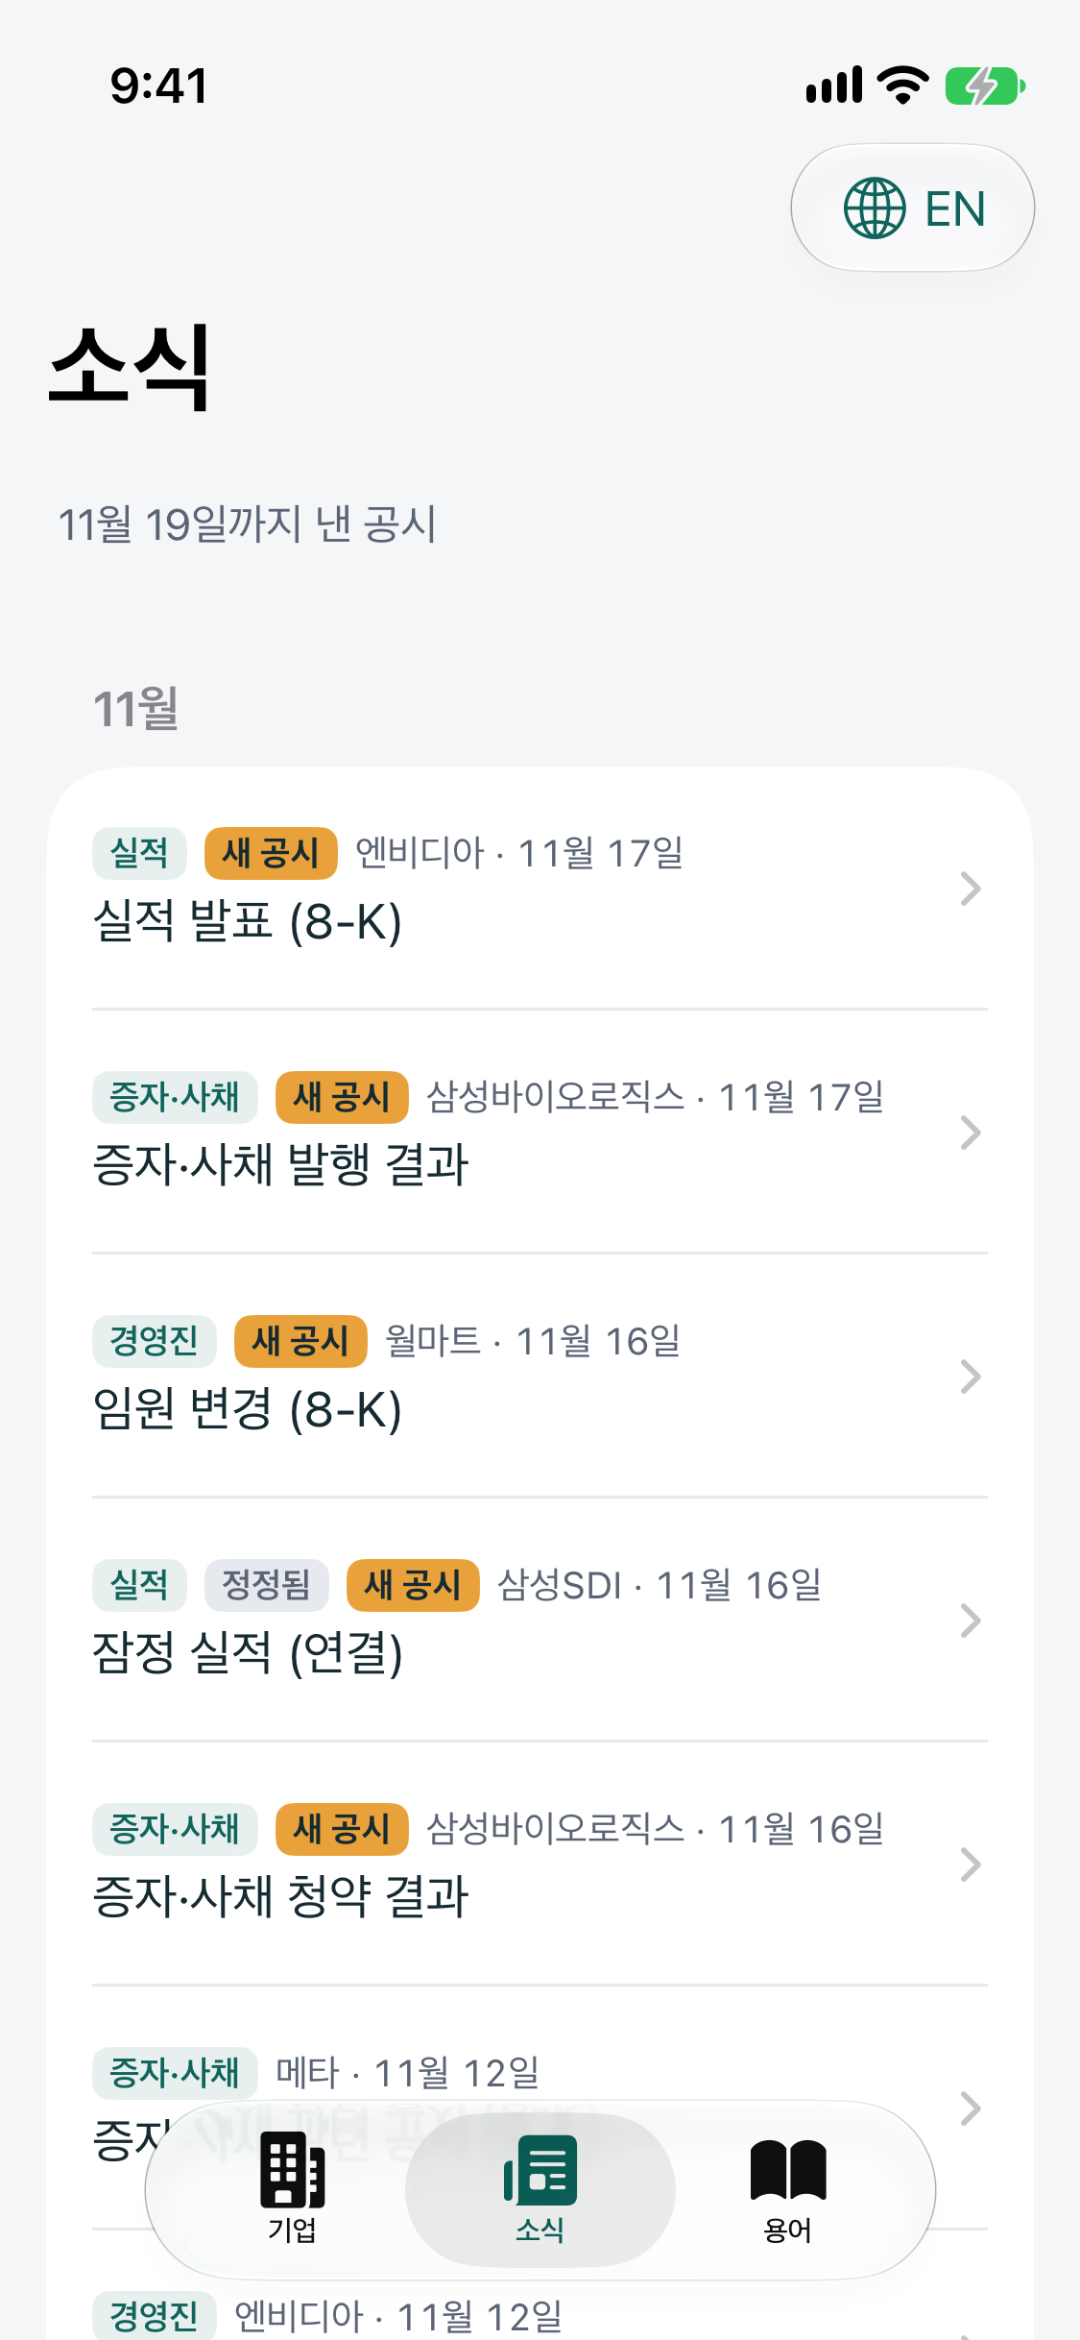
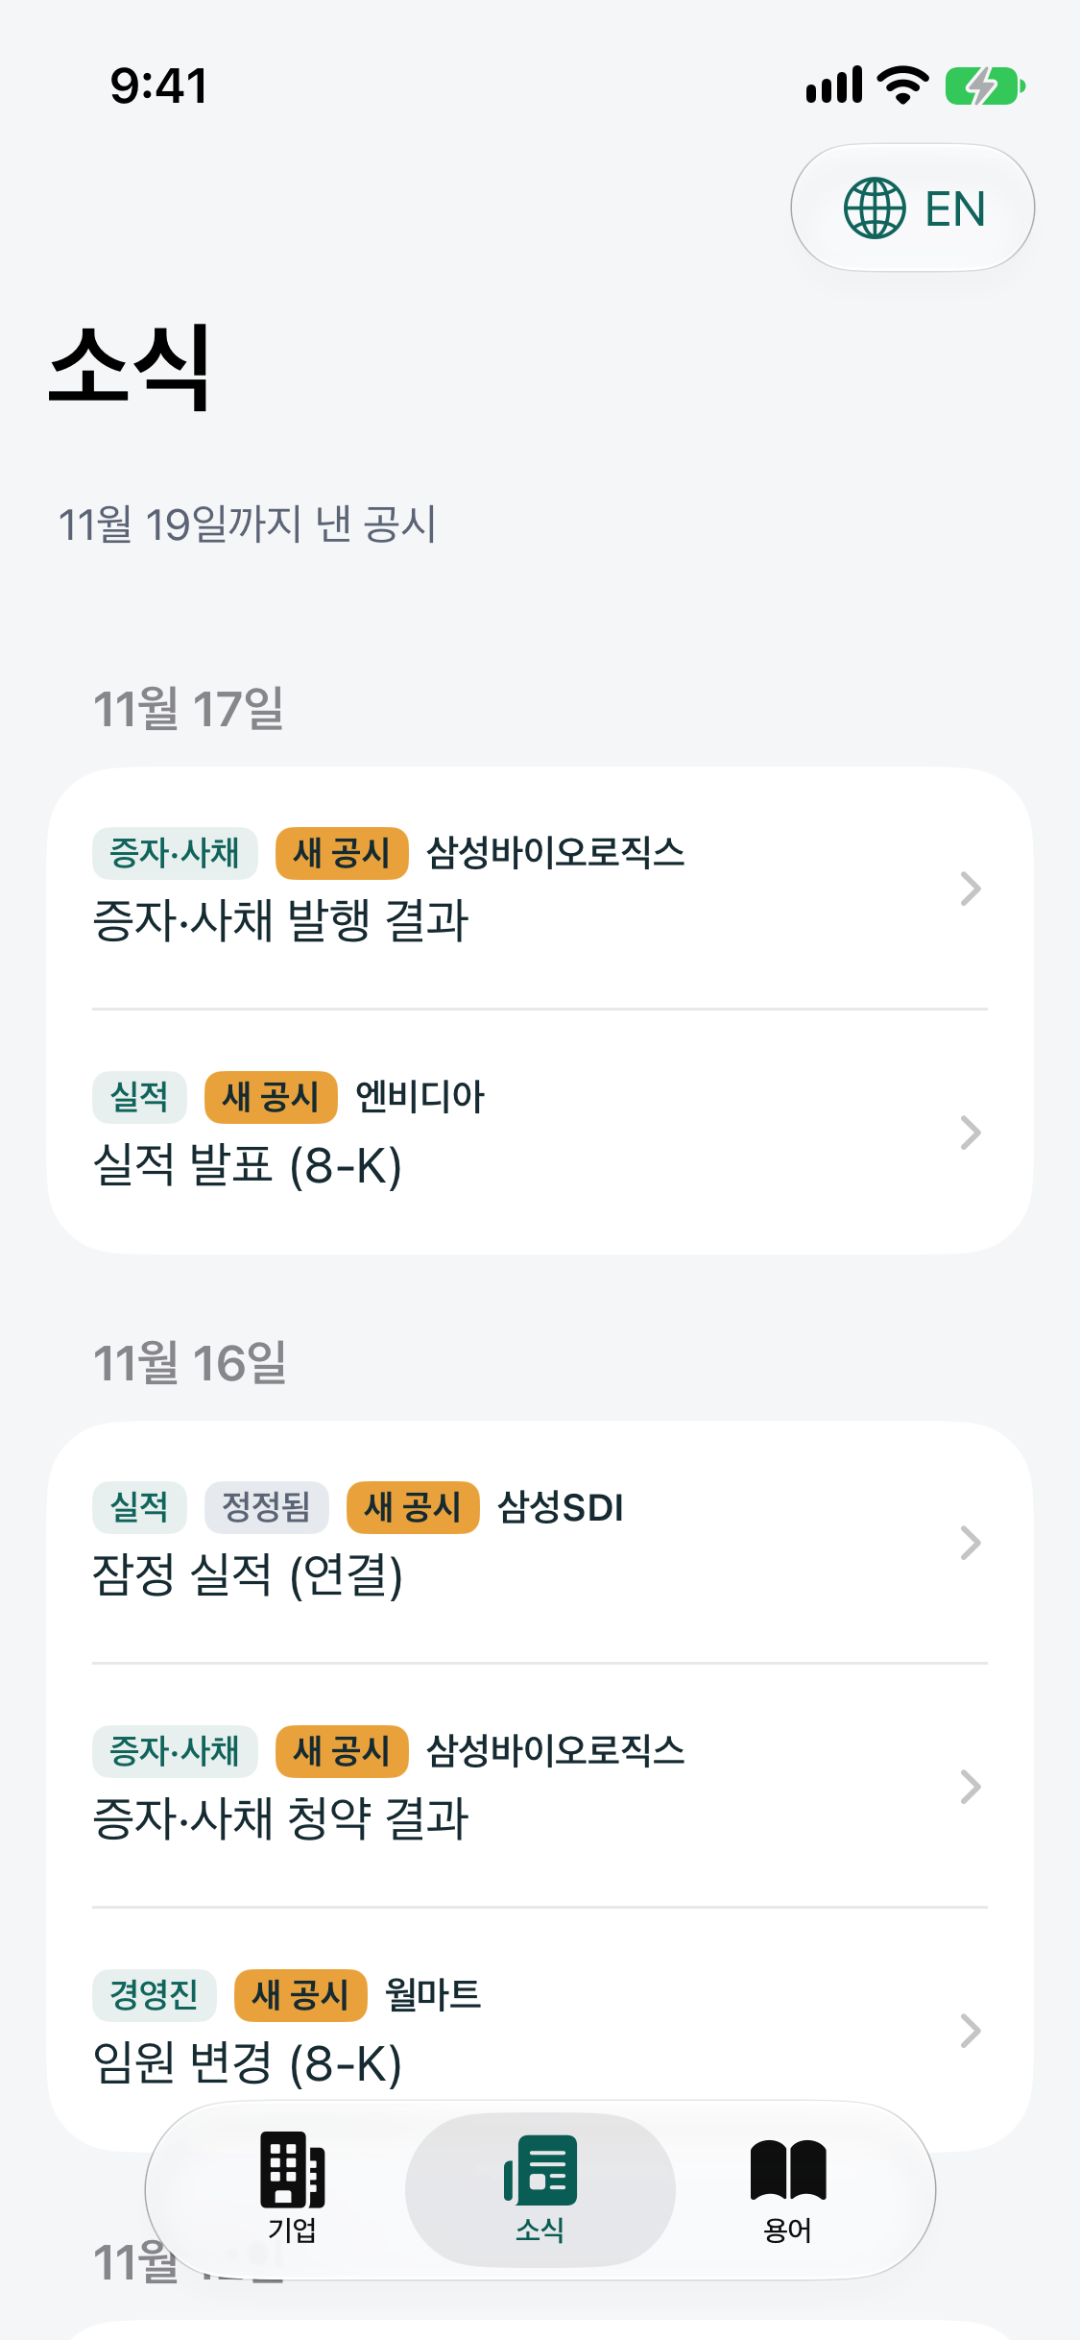
docs: D86, news and glossary screenshots, scroll to a launch selection
Agent: claude

diff --git a/ios/Footnote/Screens/NewsAndGlossary.swift b/ios/Footnote/Screens/NewsAndGlossary.swift
@@ -16,46 +16,50 @@ struct NewsView: View {
     }
 
     var body: some View {
-        SelectionList(selection: selection) {
-            Text(words: Copy.dataDate(store.meta.dataAsOf, language))
-                .font(.subheadline)
-                .foregroundStyle(Theme.muted)
-                .listRowBackground(Color.clear)
-                .listRowInsets(EdgeInsets(top: 0, leading: 4, bottom: 0, trailing: 4))
-            if feed.isEmpty {
-                Section {
-                    Text(words: Copy.endNote(listed: 0, capped: false, language))
-                        .font(.body)
-                        .foregroundStyle(Theme.muted)
-                        .fixedSize(horizontal: false, vertical: true)
-                        .frame(minHeight: Theme.minTarget, alignment: .leading)
-                        .listRowBackground(Theme.surface)
-                        .accessibilityIdentifier("news-empty")
-                }
-            }
-            ForEach(feed.days) { day in
-                Section {
-                    ForEach(day.filings) { filing in
-                        FilingRowLink(filingID: filing.id) {
-                            FilingRow(
-                                filing: filing, dataAsOf: feed.dataAsOf,
-                                companyName: store.company(id: filing.companyID)
-                                    .map { Titles.name(of: $0, language: language) },
-                                showsDate: false)
-                        }
+        ScrollViewReader { proxy in
+            SelectionList(selection: selection) {
+                Text(words: Copy.dataDate(store.meta.dataAsOf, language))
+                    .font(.subheadline)
+                    .foregroundStyle(Theme.muted)
+                    .listRowBackground(Color.clear)
+                    .listRowInsets(EdgeInsets(top: 0, leading: 4, bottom: 0, trailing: 4))
+                if feed.isEmpty {
+                    Section {
+                        Text(words: Copy.endNote(listed: 0, capped: false, language))
+                            .font(.body)
+                            .foregroundStyle(Theme.muted)
+                            .fixedSize(horizontal: false, vertical: true)
+                            .frame(minHeight: Theme.minTarget, alignment: .leading)
+                            .listRowBackground(Theme.surface)
+                            .accessibilityIdentifier("news-empty")
                     }
-                } header: {
-                    Text(words: dayTitle(day.date))
-                        .accessibilityAddTraits(.isHeader)
+                }
+                ForEach(feed.days) { day in
+                    Section {
+                        ForEach(day.filings) { filing in
+                            FilingRowLink(filingID: filing.id) {
+                                FilingRow(
+                                    filing: filing, dataAsOf: feed.dataAsOf,
+                                    companyName: store.company(id: filing.companyID)
+                                        .map { Titles.name(of: $0, language: language) },
+                                    showsDate: false)
+                            }
+                            .id(filing.id)
+                        }
+                    } header: {
+                        Text(words: dayTitle(day.date))
+                            .accessibilityAddTraits(.isHeader)
+                    }
+                }
+                if !feed.isEmpty {
+                    Section {
+                    } footer: {
+                        SectionNote(text: Copy.newsEndNote(
+                            listed: feed.filings.count, capped: feed.isCapped, language))
+                    }
                 }
             }
-            if !feed.isEmpty {
-                Section {
-                } footer: {
-                    SectionNote(text: Copy.newsEndNote(
-                        listed: feed.filings.count, capped: feed.isCapped, language))
-                }
-            }
+            .task { await scrollToSelection(selection?.wrappedValue, proxy) }
         }
         .groupedScreen()
         .navigationTitle(language("소식", "News"))
@@ -90,6 +94,7 @@ struct GlossaryView: View {
                         SelectableRow(value: entry.termKey, selection: selection, route: .glossary(entry.termKey)) {
                             GlossaryTermRow(entry: entry)
                         }
+                        .id(entry.termKey)
                         .accessibilityIdentifier("glossary-\(entry.termKey)")
                     } else {
                         GlossaryEntryRow(entry: entry, isFocused: entry.termKey == focus)
@@ -104,12 +109,22 @@ struct GlossaryView: View {
                 try? await Task.sleep(for: .milliseconds(300))
                 proxy.scrollTo(focus, anchor: .top)
             }
+            // The split view can open with a term already chosen (a launch route); bring it
+            // into view once. Later choices are rows the reader can already see.
+            .task { if focus == nil { await scrollToSelection(selection?.wrappedValue, proxy) } }
         }
         .groupedScreen()
         .navigationTitle(language("용어", "Glossary"))
         .languageToolbar()
         .accessibilityIdentifier("glossary-page")
     }
+}
+
+/// Scrolls a list to the row chosen before it appeared, after it has laid out.
+@MainActor private func scrollToSelection(_ id: String?, _ proxy: ScrollViewProxy) async {
+    guard let id else { return }
+    try? await Task.sleep(for: .milliseconds(300))
+    proxy.scrollTo(id, anchor: .center)
 }
 
 /// One entry in full: the plain word, what it means, then the formal term.

diff --git a/docs/DECISIONS.md b/docs/DECISIONS.md
@@ -1338,3 +1338,49 @@ Follows D84 after the PR #34 review.
   company compare picks it across all of a company's figures. The two can differ for a
   company with mixed bases.
 - Open, owner review: the new drafted copy the pull request lists.
+
+## D86 · News feed, glossary links and the iPad and Mac glossary columns · 2026-11-19 (`PROPOSED`)
+
+Roadmap I10. Decided by the lead under the owner's delegation; the drafted copy is for the
+owner's final check.
+
+- 소식 / News is a FootnoteKit model, `NewsFeed`, built from each company's `CompanyPage`.
+  A filing shows in the feed only when its company page lists it (the 12-month window and
+  the ten-per-company cap), and 새 공시 uses the same `Freshness` rule: the data date and the
+  six days before it (the owner's rule). The feed shows the thirty newest of those filings,
+  grouped by the day they were filed, because DESIGN.md asks each screen to show less and
+  the full set is about one hundred and eighty rows. A row is the company page's row (tag,
+  title, no preview line) with the company's name in place of the date the day heading
+  gives. A note under the feed says how many it shows; an empty feed shows board 19's "no
+  filings in the last 12 months" line.
+- There is no loading state: the app opens its bundled file before the first screen
+  (DESIGN.md, board 19). The empty states are the feed above and, for the glossary, the
+  existing rule that the tab, the sidebar row and every glossary link are hidden while the
+  bundle has no rows in the language (R-24).
+- 용어 / Glossary lists the bundle's rows in dictionary order of the term the reader sees
+  (Korean or English collation): the plain word, the meaning, then the formal term. DESIGN.md
+  calls for neither search nor sections there, so there are none, and so no ⌘F.
+- Links: the figure screen's "용어 풀이 더 보기" and a new link at the end of each filing and
+  annual page open the glossary scrolled to the matching entry (`metric_<key>`,
+  `category_<key>`), with that row in Tint, the selected-row colour. Board 20 lists
+  "Glossary for a tagged term" one tap from a filing page; the link sits after the original
+  so the approved order (sentences, numbers, original) is unchanged.
+- iPad and Mac: the glossary gets the split view's two columns, terms in the content column
+  and the chosen term in the detail column. A new sidebar item clears the filing or term
+  and anything pushed over it; a new filing or term clears what was pushed over the old one.
+- A news or glossary list that opens with a row already chosen (a launch route) scrolls
+  that row into view once; later choices are rows the reader can already see, so the list
+  does not move.
+- Mac keyboard: the company page, news and glossary lists are selection lists, so the arrow
+  keys move the selection and the detail column follows; Return or a double click selects
+  the focused row. The sidebar was already a selection list. iPhone and iPad rows stay
+  buttons.
+- `Copy.dot` is now a no-break space, the middle dot, then an ordinary space, so the dot
+  stays with the word before it and never starts a line. The only break is after the dot.
+  A no-break space on both sides was not chosen: it would join both neighbours into one
+  unbreakable run, which at accessibility sizes forces a break inside a word. Display titles
+  with a detail (`… 공시 · 2025년 재공시`) use the same separator.
+- Not changed: glossary wording (every entry is still `approved: false`) and the release
+  gate that refuses a development bundle.
+- Open, owner review: the drafted copy the pull request lists, and the thirty-filing size of
+  the feed.
